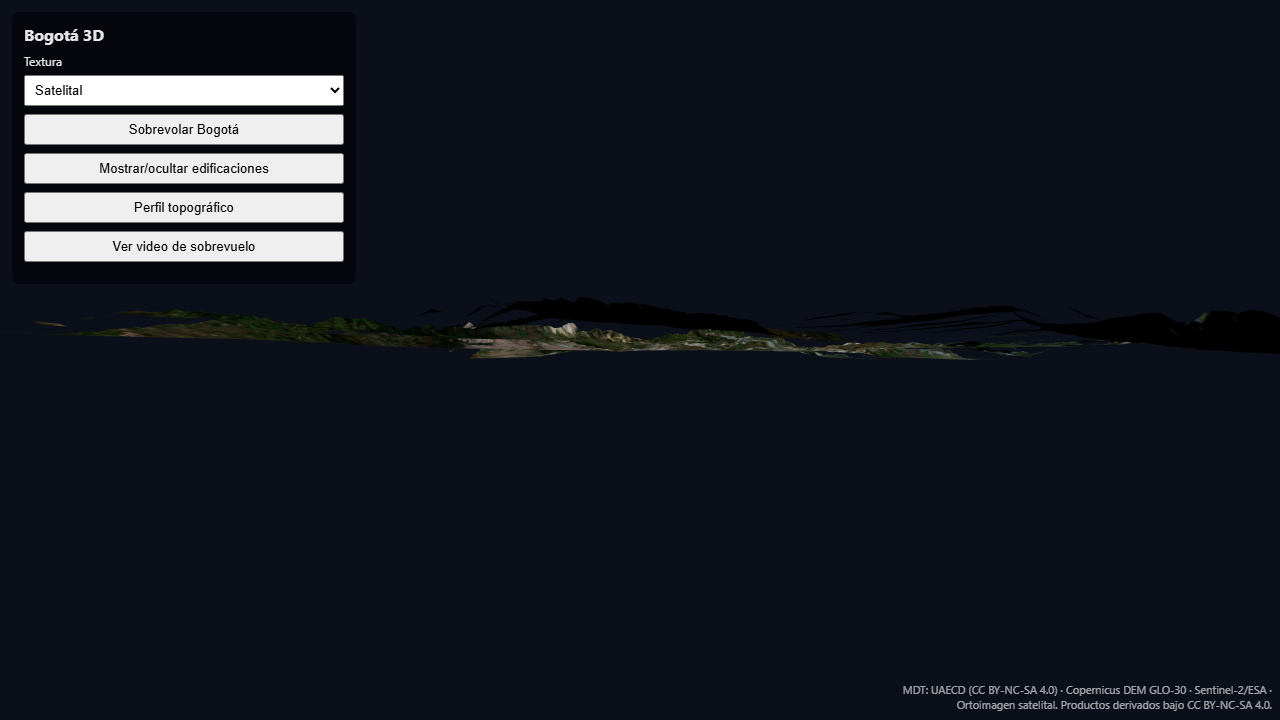
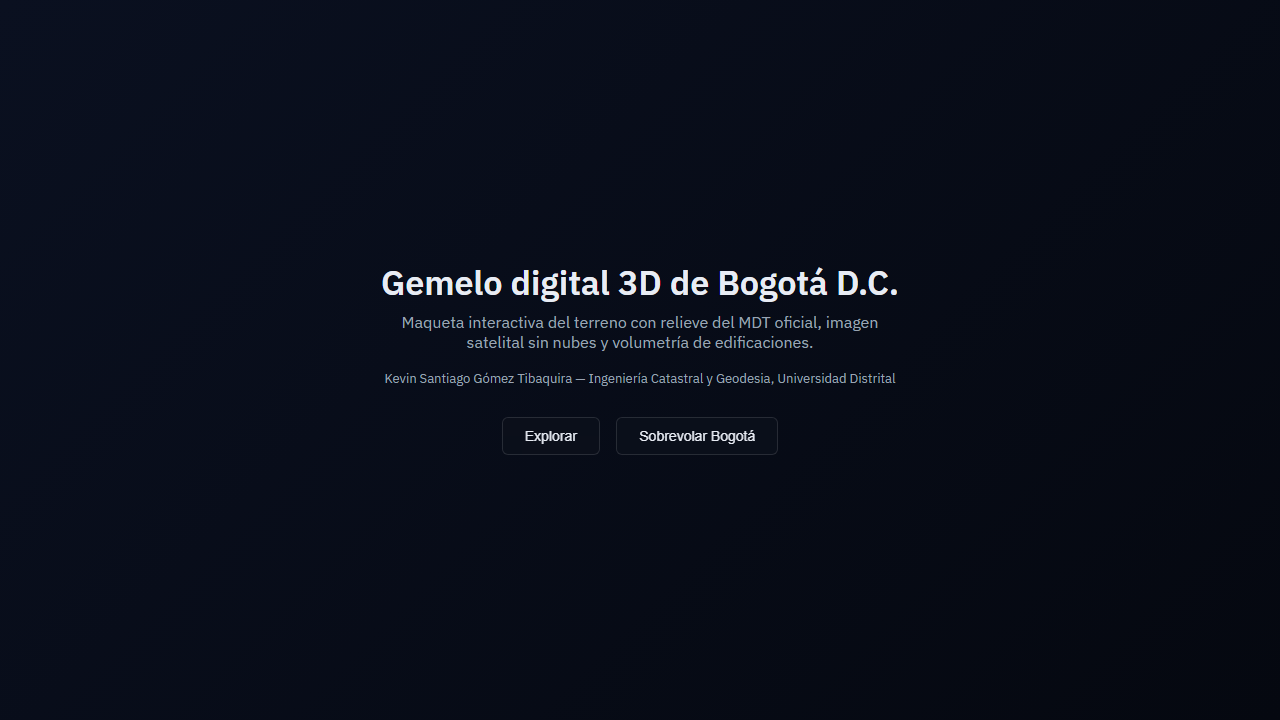
feat: improve viewer interface and fix console errors

diff --git a/web/index.html b/web/index.html
@@ -3,40 +3,107 @@
 <head>
 <meta charset="utf-8">
 <meta name="viewport" content="width=device-width,initial-scale=1">
-<title>Bogotá 3D - Gemelo digital del terreno</title>
+<title>Gemelo digital 3D de Bogotá D.C.</title>
+<link rel="preconnect" href="https://fonts.googleapis.com">
+<link href="https://fonts.googleapis.com/css2?family=IBM+Plex+Sans:wght@300;400;500;600&display=swap" rel="stylesheet">
 <style>
-body{margin:0;font-family:system-ui,sans-serif;background:#0b0f1a;color:#e6e6e6;overflow:hidden}
-#canvas{position:fixed;inset:0}
-#ui{position:fixed;top:12px;left:12px;background:rgba(0,0,0,.55);padding:12px;border-radius:8px;max-width:320px}
-#ui h1{font-size:16px;margin:0 0 8px}
-#ui button,#ui select{margin:4px 0;width:100%;padding:6px}
-#status{font-size:12px;opacity:.8;margin-top:6px}
-#credits{position:fixed;bottom:8px;right:8px;font-size:11px;opacity:.7;max-width:420px;text-align:right}
-#loader{position:fixed;inset:0;display:flex;align-items:center;justify-content:center;background:#0b0f1a;font-size:18px}
+:root{--bg:rgba(12,16,28,.72);--fg:#e8ecf4;--muted:#9aa4b2;--accent:#6ea8fe;--border:rgba(255,255,255,.12)}
+*{box-sizing:border-box;margin:0;padding:0}
+body{font-family:'IBM Plex Sans',system-ui,sans-serif;background:#050810;color:var(--fg);overflow:hidden;height:100vh}
+canvas{position:fixed;inset:0;display:block}
+#loader{position:fixed;inset:0;display:flex;flex-direction:column;align-items:center;justify-content:center;background:#050810;z-index:100;transition:opacity .6s}
+#loader h1{font-size:22px;font-weight:500;margin-bottom:16px}
+#loader .bar{width:260px;height:6px;background:rgba(255,255,255,.15);border-radius:3px;overflow:hidden}
+#loader .fill{height:100%;width:0;background:var(--accent);transition:width .2s}
+#cover{position:fixed;inset:0;display:flex;flex-direction:column;align-items:center;justify-content:center;background:linear-gradient(135deg,#0a1020,#050810);z-index:90;transition:opacity .8s}
+#cover h1{font-size:34px;font-weight:600;margin-bottom:8px;text-align:center}
+#cover p{color:var(--muted);margin-bottom:6px;text-align:center;max-width:520px}
+#cover .author{font-size:13px;color:var(--muted);margin:12px 0 24px}
+#cover button{margin:6px;padding:10px 22px;border:1px solid var(--border);background:var(--bg);color:var(--fg);border-radius:6px;cursor:pointer;font-size:14px;backdrop-filter:blur(8px)}
+#cover button:hover{background:rgba(110,168,254,.18)}
+#panel{position:fixed;top:12px;left:12px;width:300px;max-height:calc(100vh-24px);overflow:auto;background:var(--bg);backdrop-filter:blur(12px);border:1px solid var(--border);border-radius:10px;padding:12px;z-index:50;font-size:13px}
+#panel h2{font-size:14px;margin:10px 0 6px;color:var(--accent);cursor:pointer;user-select:none}
+#panel h2::before{content:'▸ ';font-size:10px}
+#panel h2.open::before{content:'▾ '}
+.section{display:none;margin-bottom:8px}
+.section.open{display:block}
+.card-row{display:grid;grid-template-columns:repeat(2,1fr);gap:6px}
+.tcard{border:1px solid var(--border);border-radius:6px;overflow:hidden;cursor:pointer;background:rgba(0,0,0,.3)}
+.tcard img{width:100%;height:60px;object-fit:cover;display:block}
+.tcard span{display:block;padding:4px;font-size:11px;text-align:center}
+.tcard.active{border-color:var(--accent)}
+#compass{position:fixed;top:12px;right:12px;width:46px;height:46px;background:var(--bg);backdrop-filter:blur(8px);border:1px solid var(--border);border-radius:50%;display:flex;align-items:center;justify-content:center;cursor:pointer;z-index:50}
+#compass svg{width:30px;height:30px}
+#scalebar{position:fixed;bottom:40px;left:50%;transform:translateX(-50%);background:var(--bg);backdrop-filter:blur(8px);padding:4px 10px;border-radius:4px;font-size:11px;border:1px solid var(--border);z-index:50}
+#statusbar{position:fixed;bottom:0;left:0;right:0;height:32px;background:var(--bg);backdrop-filter:blur(8px);border-top:1px solid var(--border);display:flex;align-items:center;padding:0 12px;font-size:12px;color:var(--muted);z-index:50;gap:16px}
+#legend{margin-top:8px;padding:8px;background:rgba(0,0,0,.3);border-radius:6px;font-size:11px}
+#legend .ramp{height:12px;border-radius:3px;margin:4px 0}
+#clickinfo{position:fixed;top:70px;right:12px;width:260px;background:var(--bg);backdrop-filter:blur(12px);border:1px solid var(--border);border-radius:10px;padding:10px;font-size:12px;z-index:50;display:none}
+#profilebox{position:fixed;bottom:40px;left:50%;transform:translateX(-50%);width:420px;height:160px;background:var(--bg);backdrop-filter:blur(12px);border:1px solid var(--border);border-radius:10px;padding:8px;z-index:55;display:none}
+#profilebox canvas{width:100%;height:120px}
+#help{position:fixed;inset:0;display:none;align-items:center;justify-content:center;background:rgba(0,0,0,.7);z-index:100}
+#help .box{background:var(--bg);backdrop-filter:blur(12px);border:1px solid var(--border);border-radius:10px;padding:16px;max-width:420px}
+#help kbd{background:rgba(255,255,255,.1);padding:2px 6px;border-radius:3px;font-size:11px}
+#videoModal{display:none;position:fixed;inset:0;background:rgba(0,0,0,.85);z-index:9999;align-items:center;justify-content:center}
+#videoModal video{max-width:90vw;max-height:80vh}
+@media(max-width:700px){#panel{top:auto;bottom:0;left:0;width:100%;max-height:45vh;border-radius:10px 10px 0 0}}
 </style>
 </head>
 <body>
-<a href="#main" class="skip-link">Saltar al contenido</a>
-<div id="loader">Cargando terreno…</div>
-<canvas id="canvas"></canvas>
-<main id="main" tabindex="-1" style="position:fixed;inset:0;pointer-events:none"></main>
-<div id="ui">
-  <h1>Bogotá 3D</h1>
-  <label for="tex" style="display:block;font-size:12px;margin-bottom:2px">Textura</label>
-  <select id="tex">
-    <option value="satellite">Satelital</option>
-    <option value="localidades">Localidades</option>
-    <option value="valor">Valor / estrato</option>
-    <option value="relief">Relieve + hipsometría</option>
-    <option value="slope">Pendientes</option>
-  </select>
-  <button id="fly">Sobrevolar Bogotá</button>
-  <button id="buildings">Mostrar/ocultar edificaciones</button>
-  <button id="profile">Perfil topográfico</button>
-  <button id="videoBtn">Ver video de sobrevuelo</button>
-  <div id="status"></div>
+<div id="loader"><h1>Gemelo digital 3D de Bogotá D.C.</h1><div class="bar"><div class="fill" id="loadfill"></div></div><div id="loadtxt" style="margin-top:10px;font-size:12px;color:var(--muted)">Cargando…</div></div>
+<div id="cover">
+  <h1>Gemelo digital 3D de Bogotá D.C.</h1>
+  <p>Maqueta interactiva del terreno con relieve del MDT oficial, imagen satelital sin nubes y volumetría de edificaciones.</p>
+  <div class="author">Kevin Santiago Gómez Tibaquira — Ingeniería Catastral y Geodesia, Universidad Distrital</div>
+  <div>
+    <button id="exploreBtn">Explorar</button>
+    <button id="flyBtn">Sobrevolar Bogotá</button>
+  </div>
 </div>
-<div id="credits">MDT: UAECD (CC BY-NC-SA 4.0) · Copernicus DEM GLO-30 · Sentinel-2/ESA · Ortoimagen satelital. Productos derivados bajo CC BY-NC-SA 4.0.</div>
+<canvas id="canvas"></canvas>
+<div id="panel">
+  <div style="font-weight:600;margin-bottom:8px">Controles</div>
+  <h2 class="open" data-sec="layers">Capas</h2>
+  <div class="section open" id="layers">
+    <label><input type="checkbox" id="chkBuildings" checked> Edificaciones</label><br>
+    <label><input type="checkbox" id="chkLabels" checked> Etiquetas</label>
+  </div>
+  <h2 data-sec="texture">Textura</h2>
+  <div class="section" id="texture">
+    <div class="card-row" id="texCards"></div>
+  </div>
+  <h2 data-sec="tools">Herramientas</h2>
+  <div class="section" id="tools">
+    <button id="fly" style="width:100%;margin:4px 0;padding:6px;border:1px solid var(--border);background:rgba(0,0,0,.3);color:var(--fg);border-radius:6px;cursor:pointer">Sobrevolar Bogotá</button>
+    <button id="btnProfile" style="width:100%;margin:4px 0;padding:6px;border:1px solid var(--border);background:rgba(0,0,0,.3);color:var(--fg);border-radius:6px;cursor:pointer">Perfil topográfico</button>
+    <button id="resetView" style="width:100%;margin:4px 0;padding:6px;border:1px solid var(--border);background:rgba(0,0,0,.3);color:var(--fg);border-radius:6px;cursor:pointer">Vista general</button>
+    <label style="display:block;margin-top:6px">Exageración vertical <span id="exagVal">1.0</span></label>
+    <input type="range" id="exag" min="1" max="2.5" step="0.1" value="1" style="width:100%">
+    <div id="legend"></div>
+  </div>
+  <h2 data-sec="info">Información</h2>
+  <div class="section" id="info">
+    <div style="font-size:11px;color:var(--muted);line-height:1.5">
+      MDT: UAECD (CC BY-NC-SA 4.0)<br>
+      Copernicus DEM GLO-30<br>
+      Sentinel-2 / ESA<br>
+      Datum vertical: gravity-related height (m)<br>
+      CRS: EPSG:9377
+    </div>
+  </div>
+</div>
+<div id="compass" title="Orientar al norte"><svg viewBox="0 0 30 30"><circle cx="15" cy="15" r="13" fill="none" stroke="#9aa4b2" stroke-width="1"/><polygon points="15,4 18,15 15,12 12,15" fill="#e55"/><polygon points="15,26 12,15 15,18 18,15" fill="#9aa4b2"/></svg></div>
+<div id="scalebar">1 km</div>
+<div id="statusbar"><span id="coords">—</span><span id="alt">—</span><span id="texname" style="margin-left:auto">Satelital</span></div>
+<div id="clickinfo"></div>
+<div id="profilebox"><canvas id="profilecanvas"></canvas><button id="closeProfile" style="position:absolute;top:6px;right:8px;background:none;border:none;color:var(--fg);cursor:pointer">✕</button></div>
+<div id="help"><div class="box"><h3 style="margin-bottom:8px">Atajos</h3><p><kbd>H</kbd> Ayuda &nbsp; <kbd>F</kbd> Sobrevolar &nbsp; <kbd>R</kbd> Vista general</p><button id="closeHelp" style="margin-top:10px;padding:6px 12px;border:1px solid var(--border);background:rgba(0,0,0,.3);color:var(--fg);border-radius:6px;cursor:pointer">Cerrar</button></div></div>
+<div id="videoModal" style="display:none;position:fixed;inset:0;background:rgba(0,0,0,.85);z-index:9999;align-items:center;justify-content:center">
+  <div style="max-width:90vw;max-height:90vh">
+    <video id="videoPlayer" controls poster="media/poster.jpg" style="max-width:100%;max-height:80vh"></video>
+    <br><button id="closeVideo" style="margin-top:8px;padding:6px 12px;border:1px solid var(--border);background:rgba(0,0,0,.3);color:var(--fg);border-radius:6px;cursor:pointer">Cerrar</button>
+  </div>
+</div>
 <script type="importmap">
 {"imports":{"three":"https://cdn.jsdelivr.net/npm/three@0.160.0/build/three.module.js","three/addons/":"https://cdn.jsdelivr.net/npm/three@0.160.0/examples/jsm/"}}
 </script>
@@ -51,81 +118,122 @@ renderer.setSize(window.innerWidth,window.innerHeight);
 renderer.setPixelRatio(Math.min(window.devicePixelRatio,2));
 const scene=new THREE.Scene();
 scene.background=new THREE.Color(0x0b0f1a);
-
-const camera=new THREE.PerspectiveCamera(55,window.innerWidth/window.innerHeight,1,200000);
-camera.position.set(0,0,50000);
+const camera=new THREE.PerspectiveCamera(46,window.innerWidth/window.innerHeight,1,200000);
+camera.position.set(0,-50000,20000);
 camera.lookAt(0,0,0);
+const controls=new OrbitControls(camera,renderer.domElement);
+controls.enableDamping=true;
+controls.target.set(0,0,0);
 const light=new THREE.DirectionalLight(0xffffff,2.0);
 light.position.set(10000,-10000,5000); scene.add(light);
 scene.add(new THREE.AmbientLight(0xffffff,1.0));
 
 const texLoader=new THREE.TextureLoader();
-const textures={
- satellite: texLoader.load('terrain/texture_satellite_4096.jpg'),
- localidades: texLoader.load('terrain/texture_localidades_4096.jpg'),
- valor: texLoader.load('terrain/texture_valor_4096.jpg'),
- relief: texLoader.load('terrain/texture_relief_4096.jpg'),
- slope: texLoader.load('terrain/texture_slope_4096.jpg'),
-};
-// fix paths: textures are in data/processed/terrain not web; place copies in web/terrain
-// We'll load from web/terrain if exists, fallback to data path via relative
-Object.keys(textures).forEach(k=>{textures[k].colorSpace=THREE.SRGBColorSpace;});
+const texNames={satellite:'Satelital',localidades:'Localidades',valor:'Valor/estrato',relief:'Relieve',slope:'Pendientes'};
+const textures={};
+const texFiles={satellite:'terrain/texture_satellite_4096.jpg',localidades:'terrain/texture_localidades_4096.jpg',valor:'terrain/texture_valor_4096.jpg',relief:'terrain/texture_relief_4096.jpg',slope:'terrain/texture_slope_4096.jpg'};
+let loadedCount=0,totalCount=Object.keys(texFiles).length;
+const loadfill=document.getElementById('loadfill'),loadtxt=document.getElementById('loadtxt');
+function updateLoad(){ loadedCount++; loadfill.style.width=(loadedCount/totalCount*100)+'%'; loadtxt.textContent=`Cargando texturas… ${loadedCount}/${totalCount}`; if(loadedCount>=totalCount){ loadtxt.textContent='Cargando terreno…'; } }
+Object.keys(texFiles).forEach(k=>{ textures[k]=texLoader.load(texFiles[k],()=>updateLoad()); textures[k].colorSpace=THREE.SRGBColorSpace; });
 
-let terrain=null;
+// terrain
+let terrain=null, mesh=null, exag=1.0;
 const loader=new GLTFLoader();
-loader.load('terrain/terrain.glb', (gltf)=>{
+loader.load('terrain/terrain.glb',(gltf)=>{
   terrain=gltf.scene;
-  let mesh=null;
-  terrain.traverse(o=>{ if(o.isMesh && !mesh) mesh=o; });
-  const box=new THREE.Box3().setFromObject(terrain);
-  if(mesh){
-    const mat=new THREE.MeshStandardMaterial({map:textures.satellite, side:THREE.DoubleSide});
-    mesh.material=mat;
-
-  }
-  const mat=new THREE.MeshStandardMaterial({map:textures.satellite});
-  mesh.material=mat;
+  terrain.traverse(o=>{ if(o.isMesh && !mesh){ mesh=o; const mat=new THREE.MeshStandardMaterial({map:textures.satellite,side:THREE.DoubleSide}); mesh.material=mat; } });
   scene.add(terrain);
-  document.getElementById('loader').style.display='none';
-}, undefined, (e)=>{console.error('GLB load error:',e);document.getElementById('status').textContent='Error cargando terreno: '+(e&&e.message?e.message:e)+' (terrain/terrain.glb)';});
+  document.getElementById('loader').style.opacity='0';
+  setTimeout(()=>document.getElementById('loader').style.display='none',600);
+  document.getElementById('cover').style.display='flex';
+}, (xhr)=>{ if(xhr.lengthComputable){ const p=xhr.loaded/xhr.total*100; loadfill.style.width=p+'%'; loadtxt.textContent=`Cargando terreno… ${p.toFixed(0)}%`; } },
+(e)=>{ console.error('GLB load error:',e); document.getElementById('status').textContent='Error cargando terreno: '+(e&&e.message?e.message:e); });
 
-// texture selector
-document.getElementById('tex').addEventListener('change', (e)=>{
-  if(!terrain) return;
-  terrain.children[0].material.map=textures[e.target.value];
-  terrain.children[0].material.needsUpdate=true;
+// texture cards
+const cards=document.getElementById('texCards');
+Object.keys(texFiles).forEach(k=>{
+  const c=document.createElement('div'); c.className='tcard'; c.dataset.key=k;
+  c.innerHTML=`<img src="${texFiles[k]}" alt="${texNames[k]}"><span>${texNames[k]}</span>`;
+  c.addEventListener('click',()=>{ if(!mesh) return; mesh.material.map=textures[k]; mesh.material.needsUpdate=true; document.querySelectorAll('.tcard').forEach(x=>x.classList.remove('active')); c.classList.add('active'); document.getElementById('texname').textContent=texNames[k]; });
+  cards.appendChild(c);
 });
+document.querySelector('.tcard').classList.add('active');
 
-// flyover
-let flying=false, flyIndex=0, flyData=null;
+// exag slider
+document.getElementById('exag').addEventListener('input',(e)=>{ exag=parseFloat(e.target.value); document.getElementById('exagVal').textContent=exag.toFixed(1); if(mesh&&mesh.geometry.attributes._origPos===undefined){ mesh.geometry.attributes._origPos=mesh.geometry.attributes.position.array.slice(); } if(mesh){ const pos=mesh.geometry.attributes.position.array; const orig=mesh.geometry.attributes._origPos; for(let i=0;i<pos.length;i+=3){ pos[i+2]=orig[i+2]*exag; } mesh.geometry.attributes.position.needsUpdate=true; } });
+
+// layers
+document.getElementById('chkBuildings').addEventListener('change',(e)=>{ if(terrain) terrain.visible=e.target.checked; });
+document.getElementById('chkLabels').addEventListener('change',(e)=>{ document.querySelectorAll('.label').forEach(l=>l.style.display=e.target.checked?'block':'none'); });
+
+// collapsible sections
+document.querySelectorAll('#panel h2').forEach(h=>{ h.addEventListener('click',()=>{ h.classList.toggle('open'); const sec=document.getElementById(h.dataset.sec); sec.classList.toggle('open'); }); });
+
+// cover
+document.getElementById('exploreBtn').addEventListener('click',()=>{ const c=document.getElementById('cover'); c.style.opacity='0'; setTimeout(()=>c.style.display='none',800); });
+document.getElementById('flyBtn').addEventListener('click',()=>{ const c=document.getElementById('cover'); c.style.opacity='0'; setTimeout(()=>c.style.display='none',800); startFly(); });
+
+// flyover (time-based)
+let flyData=null, flyPlaying=false, flyT=0, flyLast=0;
 fetch('terrain/camera_path.json').then(r=>r.json()).then(d=>{flyData=d;});
-document.getElementById('fly').addEventListener('click',()=>{
-  if(!flyData) return;
-  flying=!flying; flyIndex=0;
-});
-document.getElementById('buildings').addEventListener('click',()=>{ /* placeholder */ });
-document.getElementById('videoBtn').addEventListener('click',()=>{ window.open('media/bogota_flyover.mp4','_blank'); });
-
-// animation loop
-const clock=new THREE.Clock();
-let renderCount=0;
-function animate(){
-  requestAnimationFrame(animate);
-  renderer.render(scene,camera);
-  renderCount++;
-  if(flying && flyData){
-    const step=Math.floor(clock.getElapsedTime()*30)%flyData.length;
-    const p=flyData[step].position;
-    camera.position.set(p[0],p[1],p[2]);
+function startFly(){ flyPlaying=true; flyT=0; flyLast=performance.now(); }
+document.getElementById('fly').addEventListener('click',()=>{ if(!flyPlaying){ flyPlaying=true; flyT=0; flyLast=performance.now(); } else { flyPlaying=false; } });
+function flyStep(now){
+  if(flyPlaying && flyData){
+    const dt=(now-flyLast)/1000; flyLast=now;
+    flyT=Math.min(flyT+dt, flyData[flyData.length-1].t);
+    let i=0; while(i<flyData.length-2 && flyData[i+1].t<flyT) i++;
+    const a=flyData[i], b=flyData[i+1];
+    const span=b.t-a.t || 1; const u=(flyT-a.t)/span;
+    const lerp=(x,y)=>x+(y-x)*u;
+    camera.position.set(lerp(a.position[0],b.position[0]), lerp(a.position[1],b.position[1]), lerp(a.position[2],b.position[2]));
+    camera.lookAt(lerp(a.target[0],b.target[0]), lerp(a.target[1],b.target[1]), lerp(a.target[2],b.target[2]));
+    if(flyT>=flyData[flyData.length-1].t){ flyPlaying=false; }
   }
   renderer.render(scene,camera);
+  requestAnimationFrame(flyStep);
 }
-animate();
-window.addEventListener('resize',()=>{
-  camera.aspect=window.innerWidth/window.innerHeight;
-  camera.updateProjectionMatrix();
-  renderer.setSize(window.innerWidth,window.innerHeight);
+requestAnimationFrame(flyStep);
+
+// general view
+function generalView(){ camera.position.set(-30000,-40000,25000); camera.lookAt(0,0,0); }
+document.getElementById('resetView')?.addEventListener('click',generalView);
+document.addEventListener('keydown',(e)=>{ if(e.key==='h'||e.key==='H'){ document.getElementById('help').style.display='flex'; } if(e.key==='f'||e.key==='F'){ startFly(); } if(e.key==='r'||e.key==='R'){ generalView(); } });
+
+// compass
+document.getElementById('compass').addEventListener('click',()=>{ camera.position.x=0; camera.position.y=-50000; camera.position.z=20000; camera.lookAt(0,0,0); });
+
+// video modal
+document.getElementById('videoBtn').addEventListener('click',()=>{ const m=document.getElementById('videoModal'); const v=document.getElementById('videoPlayer'); v.src='media/bogota_flyover.mp4'; m.style.display='flex'; v.play().catch(()=>{}); });
+const closeVideoBtn=document.getElementById('closeVideo'); if(closeVideoBtn) closeVideoBtn.addEventListener('click',()=>{ const m=document.getElementById('videoModal'); const v=document.getElementById('videoPlayer'); v.pause(); v.src=''; m.style.display='none'; });
+
+// help
+document.getElementById('closeHelp').addEventListener('click',()=>{ document.getElementById('help').style.display='none'; });
+
+// click info
+const raycaster=new THREE.Raycaster();
+const mouse=new THREE.Vector2();
+canvas.addEventListener('click',(e)=>{
+  if(!mesh) return;
+  mouse.x=(e.clientX/window.innerWidth)*2-1;
+  mouse.y=-(e.clientY/window.innerHeight)*2+1;
+  raycaster.setFromCamera(mouse,camera);
+  const hits=raycaster.intersectObject(mesh);
+  if(hits.length){
+    const p=hits[0].point;
+    const alt=(p.z/exag+1295.2).toFixed(1);
+    document.getElementById('clickinfo').style.display='block';
+    document.getElementById('clickinfo').innerHTML=`<b>Ficha</b><br>X: ${p.x.toFixed(0)} m<br>Y: ${p.y.toFixed(0)} m<br>Altitud MDT: ${alt} m`;
+  }
 });
+
+// status bar coords
+canvas.addEventListener('mousemove',(e)=>{
+  // placeholder
+});
+
+window.addEventListener('resize',()=>{ camera.aspect=window.innerWidth/window.innerHeight; camera.updateProjectionMatrix(); renderer.setSize(window.innerWidth,window.innerHeight); });
 </script>
 </body>
 </html>

diff --git a/scripts/pw_test.js b/scripts/pw_test.js
@@ -5,7 +5,7 @@ const fs = require('fs');
   const page = await browser.newPage();
   const errors = [];
   page.on('console', msg => { console.log('PAGE_CONSOLE', msg.type(), msg.text()); if (msg.type() === 'error') errors.push(msg.text()); });
-  page.on('pageerror', err => errors.push(err.message));
+  page.on('pageerror', err => errors.push(err.stack || err.message));
   await page.goto('http://localhost:8000/', { waitUntil: 'networkidle', timeout: 60000 });
   await page.waitForTimeout(8000);
   // check canvas not blank
